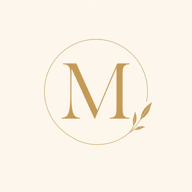
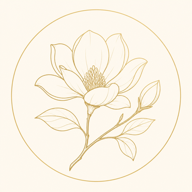
診断体験を作り込み: 解析ローディング演出(進捗リング＋項目チェック)＋結果のドラマチック登場アニメ＋アプリアイコンを花モチーフに刷新

diff --git a/styles.css b/styles.css
@@ -134,3 +134,32 @@ button{ font-family:inherit; cursor:pointer; }
 .face-read-body p{ font-size:.86rem; color:var(--ink); margin-top:.4em; line-height:1.6; }
 .face-read-contour{ color:var(--ink-soft) !important; }
 .face-read-sub{ font-size:.76rem; color:var(--ink-soft); margin-top:12px; text-align:center; }
+
+/* 解析中オーバーレイ（診断→結果の演出） */
+.analyzing-ov{ position:fixed; inset:0; z-index:9999; display:flex; align-items:center; justify-content:center; background:rgba(237,228,212,.72); backdrop-filter:blur(9px); -webkit-backdrop-filter:blur(9px); opacity:0; transition:opacity .4s; }
+.analyzing-ov.in{ opacity:1; }
+.analyzing-ov.out{ opacity:0; }
+.az-card{ background:#fff; border-radius:24px; padding:38px 34px 32px; box-shadow:0 30px 70px -28px rgba(120,90,45,.5); text-align:center; width:min(340px,86vw); transform:translateY(14px) scale(.95); transition:transform .45s cubic-bezier(.2,.8,.3,1); }
+.analyzing-ov.in .az-card{ transform:none; }
+.az-ring{ position:relative; width:92px; height:92px; margin:0 auto 22px; }
+.az-ring svg{ width:100%; height:100%; transform:rotate(-90deg); }
+.az-track{ fill:none; stroke:#EEE6D8; stroke-width:6; }
+.az-prog{ fill:none; stroke:#C2A268; stroke-width:6; stroke-linecap:round; stroke-dasharray:214; stroke-dashoffset:214; transition:stroke-dashoffset .12s linear; }
+.az-pct{ position:absolute; inset:0; display:flex; align-items:center; justify-content:center; font-family:"Shippori Mincho",serif; font-size:21px; color:#9A7B4F; }
+.az-title{ font-family:"Shippori Mincho",serif; font-size:16px; color:#33302B; margin:0 0 20px; letter-spacing:.03em; }
+.az-list{ list-style:none; padding:0; margin:0; text-align:left; display:flex; flex-direction:column; gap:11px; }
+.az-list li{ display:flex; align-items:center; gap:11px; font-size:13px; color:#B4ADA2; opacity:.45; transition:opacity .35s,color .35s; }
+.az-list li.done{ opacity:1; color:#5A544C; }
+.az-check{ width:19px; height:19px; border-radius:50%; border:1.6px solid #DDD3C4; flex:none; position:relative; transition:all .35s; }
+.az-list li.done .az-check{ background:#7BA07C; border-color:#7BA07C; }
+.az-list li.done .az-check::after{ content:''; position:absolute; left:6px; top:3px; width:4px; height:8px; border:solid #fff; border-width:0 2px 2px 0; transform:rotate(45deg); }
+
+/* 結果のドラマチック登場 */
+@keyframes result-rise{ from{ opacity:0; transform:translateY(24px) scale(.985); } to{ opacity:1; transform:none; } }
+.result-hero{ animation:result-rise .7s cubic-bezier(.2,.8,.3,1) both; }
+@keyframes chip-pop{ 0%{ opacity:0; transform:translateY(10px) scale(.8);} 60%{ transform:translateY(0) scale(1.06);} 100%{ opacity:1; transform:none;} }
+.result-hero .dx-chip{ animation:chip-pop .5s cubic-bezier(.2,.8,.3,1) both; }
+.result-hero .dx-chip:nth-child(1){ animation-delay:.4s; }
+.result-hero .dx-chip:nth-child(2){ animation-delay:.55s; }
+.result-hero .dx-chip:nth-child(3){ animation-delay:.7s; }
+.result-hero .dx-chip:nth-child(4){ animation-delay:.85s; }

diff --git a/app-kogao.js b/app-kogao.js
@@ -134,11 +134,42 @@ function choose(i){
   else finishQuiz();
 }
 
-function finishQuiz(){
+async function finishQuiz(){
   const dx = diagnoseKogao(state.answers, state.face);
   saveDx({ ...dx, answers:state.answers });
   addHistory({ problemKeys:dx.problemKeys, primary:dx.primary });
+  await runAnalyzing();
   renderResult(dx);
+}
+
+// 解析中の演出（進捗リング＋項目チェック）— 診断→結果の"間"を作り込む
+function runAnalyzing(){
+  return new Promise(resolve => {
+    const items = ['お顔全体のバランス', 'むくみ・巡り', 'エラ・咬筋の張り', '姿勢のクセ', '表情筋の状態'];
+    const ov = document.createElement('div');
+    ov.className = 'analyzing-ov';
+    ov.innerHTML = `
+      <div class="az-card">
+        <div class="az-ring">
+          <svg viewBox="0 0 80 80"><circle class="az-track" cx="40" cy="40" r="34"/><circle class="az-prog" cx="40" cy="40" r="34"/></svg>
+          <span class="az-pct">0%</span>
+        </div>
+        <p class="az-title">あなたのお顔を解析しています</p>
+        <ul class="az-list">${items.map((t) => `<li><span class="az-check"></span>${t}</li>`).join('')}</ul>
+      </div>`;
+    document.body.appendChild(ov);
+    requestAnimationFrame(() => ov.classList.add('in'));
+    const lis = ov.querySelectorAll('.az-list li');
+    lis.forEach((li, i) => setTimeout(() => li.classList.add('done'), 380 + i * 330));
+    const pctEl = ov.querySelector('.az-pct'), progEl = ov.querySelector('.az-prog');
+    let p = 0;
+    const tick = setInterval(() => {
+      p = Math.min(100, p + 2); pctEl.textContent = p + '%';
+      progEl.style.strokeDashoffset = String(214 * (1 - p / 100));
+      if (p >= 100) clearInterval(tick);
+    }, 34);
+    setTimeout(() => { ov.classList.add('out'); setTimeout(() => { ov.remove(); resolve(); }, 400); }, 2200);
+  });
 }
 
 // ===================================================================
